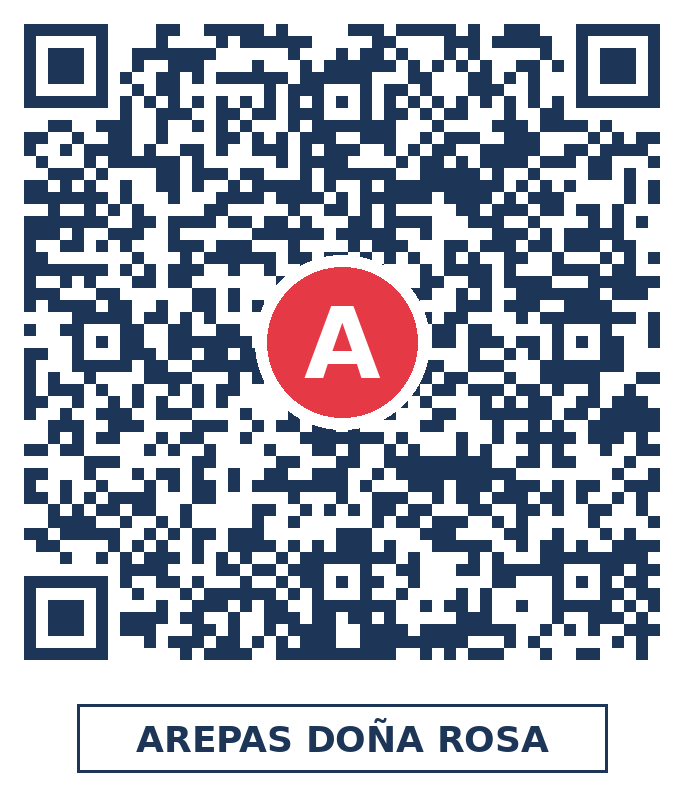
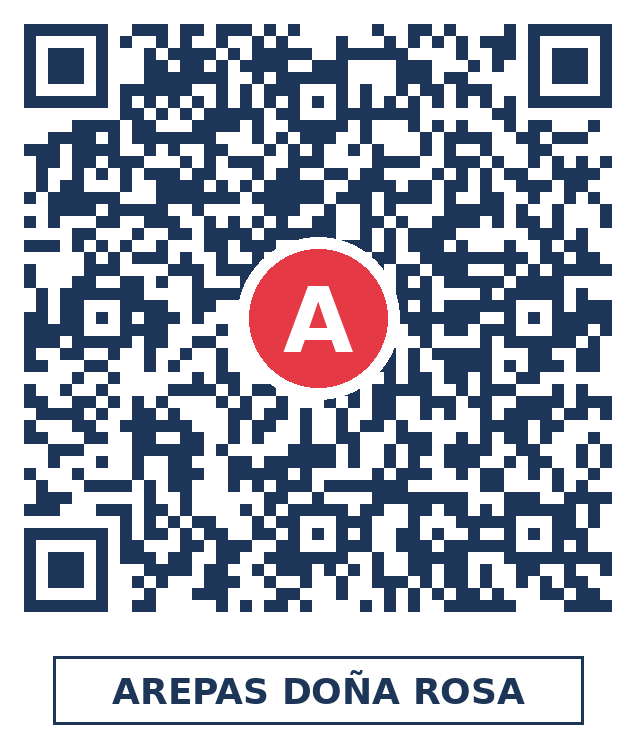
respaldo automático del VPS 2026-11-02 15:04

diff --git a/08_SERVIDOR/web/clientes/arepas-dona-rosa/assets/tienda_autocontenida.html b/08_SERVIDOR/web/clientes/arepas-dona-rosa/assets/tienda_autocontenida.html
@@ -695,13 +695,13 @@ nav a.activo { background: var(--primario); box-shadow: 0 2px 8px rgba(230, 57, 
 <meta property="og:site_name" content="MarketAttack">
 <meta property="og:title" content="Arepas Doña Rosa">
 <meta property="og:description" content="Las arepas del barrio, hechas a mano">
-<meta property="og:image" content="https://157-137-203-223.sslip.io/clientes/arepas-dona-rosa/assets/portada.png">
-<meta property="og:url" content="https://157-137-203-223.sslip.io/clientes/arepas-dona-rosa/tienda.html">
+<meta property="og:image" content="https://marketattack.duckdns.org/clientes/arepas-dona-rosa/assets/portada.png">
+<meta property="og:url" content="https://marketattack.duckdns.org/clientes/arepas-dona-rosa/tienda.html">
 <meta name="twitter:card" content="summary_large_image">
 <meta name="twitter:title" content="Arepas Doña Rosa">
 <meta name="twitter:description" content="Las arepas del barrio, hechas a mano">
-<meta name="twitter:image" content="https://157-137-203-223.sslip.io/clientes/arepas-dona-rosa/assets/portada.png">
-<script type="application/ld+json">{"@context": "https://schema.org", "@type": "LocalBusiness", "name": "Arepas Doña Rosa", "description": "Las arepas del barrio, hechas a mano", "telephone": "3001234567", "image": "https://157-137-203-223.sslip.io/clientes/arepas-dona-rosa/assets/portada.png", "url": "https://157-137-203-223.sslip.io/clientes/arepas-dona-rosa/tienda.html", "address": "Carrera 7 # 23-45, Bosa La Esperanza, Bogotá", "openingHours": "Lunes a domingo de 6:00 a. m. a 8:00 p. m."}</script>
+<meta name="twitter:image" content="https://marketattack.duckdns.org/clientes/arepas-dona-rosa/assets/portada.png">
+<script type="application/ld+json">{"@context": "https://schema.org", "@type": "LocalBusiness", "name": "Arepas Doña Rosa", "description": "Las arepas del barrio, hechas a mano", "telephone": "3001234567", "image": "https://marketattack.duckdns.org/clientes/arepas-dona-rosa/assets/portada.png", "url": "https://marketattack.duckdns.org/clientes/arepas-dona-rosa/tienda.html", "address": "Carrera 7 # 23-45, Bosa La Esperanza, Bogotá", "openingHours": "Lunes a domingo de 6:00 a. m. a 8:00 p. m."}</script>
 <style>
 .grid-menu{display:grid;grid-template-columns:repeat(auto-fill,minmax(220px,1fr));gap:14px;margin-top:14px}
 .tarjeta-producto{background:#fff;border:1px solid #eee;border-radius:14px;padding:14px;box-shadow:0 4px 14px rgba(0,0,0,.06);display:flex;flex-direction:column;gap:6px}

diff --git a/08_SERVIDOR/web/clientes/arepas-dona-rosa/index.html b/08_SERVIDOR/web/clientes/arepas-dona-rosa/index.html
@@ -13,13 +13,13 @@
 <meta property="og:site_name" content="MarketAttack">
 <meta property="og:title" content="Arepas Doña Rosa">
 <meta property="og:description" content="Las arepas del barrio, hechas a mano">
-<meta property="og:image" content="https://157-137-203-223.sslip.io/clientes/arepas-dona-rosa/assets/portada.png">
-<meta property="og:url" content="https://157-137-203-223.sslip.io/clientes/arepas-dona-rosa/tienda.html">
+<meta property="og:image" content="https://marketattack.duckdns.org/clientes/arepas-dona-rosa/assets/portada.png">
+<meta property="og:url" content="https://marketattack.duckdns.org/clientes/arepas-dona-rosa/tienda.html">
 <meta name="twitter:card" content="summary_large_image">
 <meta name="twitter:title" content="Arepas Doña Rosa">
 <meta name="twitter:description" content="Las arepas del barrio, hechas a mano">
-<meta name="twitter:image" content="https://157-137-203-223.sslip.io/clientes/arepas-dona-rosa/assets/portada.png">
-<script type="application/ld+json">{"@context": "https://schema.org", "@type": "LocalBusiness", "name": "Arepas Doña Rosa", "description": "Las arepas del barrio, hechas a mano", "telephone": "3001234567", "image": "https://157-137-203-223.sslip.io/clientes/arepas-dona-rosa/assets/portada.png", "url": "https://157-137-203-223.sslip.io/clientes/arepas-dona-rosa/tienda.html", "address": "Carrera 7 # 23-45, Bosa La Esperanza, Bogotá", "openingHours": "Lunes a domingo de 6:00 a. m. a 8:00 p. m."}</script>
+<meta name="twitter:image" content="https://marketattack.duckdns.org/clientes/arepas-dona-rosa/assets/portada.png">
+<script type="application/ld+json">{"@context": "https://schema.org", "@type": "LocalBusiness", "name": "Arepas Doña Rosa", "description": "Las arepas del barrio, hechas a mano", "telephone": "3001234567", "image": "https://marketattack.duckdns.org/clientes/arepas-dona-rosa/assets/portada.png", "url": "https://marketattack.duckdns.org/clientes/arepas-dona-rosa/tienda.html", "address": "Carrera 7 # 23-45, Bosa La Esperanza, Bogotá", "openingHours": "Lunes a domingo de 6:00 a. m. a 8:00 p. m."}</script>
 <style>
 .grid-menu{display:grid;grid-template-columns:repeat(auto-fill,minmax(220px,1fr));gap:14px;margin-top:14px}
 .tarjeta-producto{background:#fff;border:1px solid #eee;border-radius:14px;padding:14px;box-shadow:0 4px 14px rgba(0,0,0,.06);display:flex;flex-direction:column;gap:6px}

diff --git a/08_SERVIDOR/web/clientes/arepas-dona-rosa/tienda.html b/08_SERVIDOR/web/clientes/arepas-dona-rosa/tienda.html
@@ -13,13 +13,13 @@
 <meta property="og:site_name" content="MarketAttack">
 <meta property="og:title" content="Arepas Doña Rosa">
 <meta property="og:description" content="Las arepas del barrio, hechas a mano">
-<meta property="og:image" content="https://157-137-203-223.sslip.io/clientes/arepas-dona-rosa/assets/portada.png">
-<meta property="og:url" content="https://157-137-203-223.sslip.io/clientes/arepas-dona-rosa/tienda.html">
+<meta property="og:image" content="https://marketattack.duckdns.org/clientes/arepas-dona-rosa/assets/portada.png">
+<meta property="og:url" content="https://marketattack.duckdns.org/clientes/arepas-dona-rosa/tienda.html">
 <meta name="twitter:card" content="summary_large_image">
 <meta name="twitter:title" content="Arepas Doña Rosa">
 <meta name="twitter:description" content="Las arepas del barrio, hechas a mano">
-<meta name="twitter:image" content="https://157-137-203-223.sslip.io/clientes/arepas-dona-rosa/assets/portada.png">
-<script type="application/ld+json">{"@context": "https://schema.org", "@type": "LocalBusiness", "name": "Arepas Doña Rosa", "description": "Las arepas del barrio, hechas a mano", "telephone": "3001234567", "image": "https://157-137-203-223.sslip.io/clientes/arepas-dona-rosa/assets/portada.png", "url": "https://157-137-203-223.sslip.io/clientes/arepas-dona-rosa/tienda.html", "address": "Carrera 7 # 23-45, Bosa La Esperanza, Bogotá", "openingHours": "Lunes a domingo de 6:00 a. m. a 8:00 p. m."}</script>
+<meta name="twitter:image" content="https://marketattack.duckdns.org/clientes/arepas-dona-rosa/assets/portada.png">
+<script type="application/ld+json">{"@context": "https://schema.org", "@type": "LocalBusiness", "name": "Arepas Doña Rosa", "description": "Las arepas del barrio, hechas a mano", "telephone": "3001234567", "image": "https://marketattack.duckdns.org/clientes/arepas-dona-rosa/assets/portada.png", "url": "https://marketattack.duckdns.org/clientes/arepas-dona-rosa/tienda.html", "address": "Carrera 7 # 23-45, Bosa La Esperanza, Bogotá", "openingHours": "Lunes a domingo de 6:00 a. m. a 8:00 p. m."}</script>
 <style>
 .grid-menu{display:grid;grid-template-columns:repeat(auto-fill,minmax(220px,1fr));gap:14px;margin-top:14px}
 .tarjeta-producto{background:#fff;border:1px solid #eee;border-radius:14px;padding:14px;box-shadow:0 4px 14px rgba(0,0,0,.06);display:flex;flex-direction:column;gap:6px}

diff --git a/08_SERVIDOR/scripts/nuevo_cliente.py b/08_SERVIDOR/scripts/nuevo_cliente.py
@@ -36,7 +36,7 @@ SCRIPTS = f"{BASE_PROY}/scripts"
 
 # Dominio público con el que se comparten la tienda y el QR.
 # Se puede cambiar sin tocar el código:  MA_URL_BASE="https://midominio.com" ...
-URL_BASE = (os.environ.get("MA_URL_BASE") or "https://157-137-203-223.sslip.io").rstrip("/")
+URL_BASE = (os.environ.get("MA_URL_BASE") or "https://marketattack.duckdns.org").rstrip("/")
 
 
 def slug(s):

diff --git a/08_SERVIDOR/scripts/qr_tienda.py b/08_SERVIDOR/scripts/qr_tienda.py
@@ -18,7 +18,7 @@ def install():
 
 
 def main():
-    url = sys.argv[1] if len(sys.argv) > 1 else "https://157-137-203-223.sslip.io/tienda.html"
+    url = sys.argv[1] if len(sys.argv) > 1 else "https://marketattack.duckdns.org/tienda.html"
     salida = sys.argv[2] if len(sys.argv) > 2 else "/tmp/qr.png"
     etiqueta = sys.argv[3] if len(sys.argv) > 3 else "MARKETATTACK"
     try:
